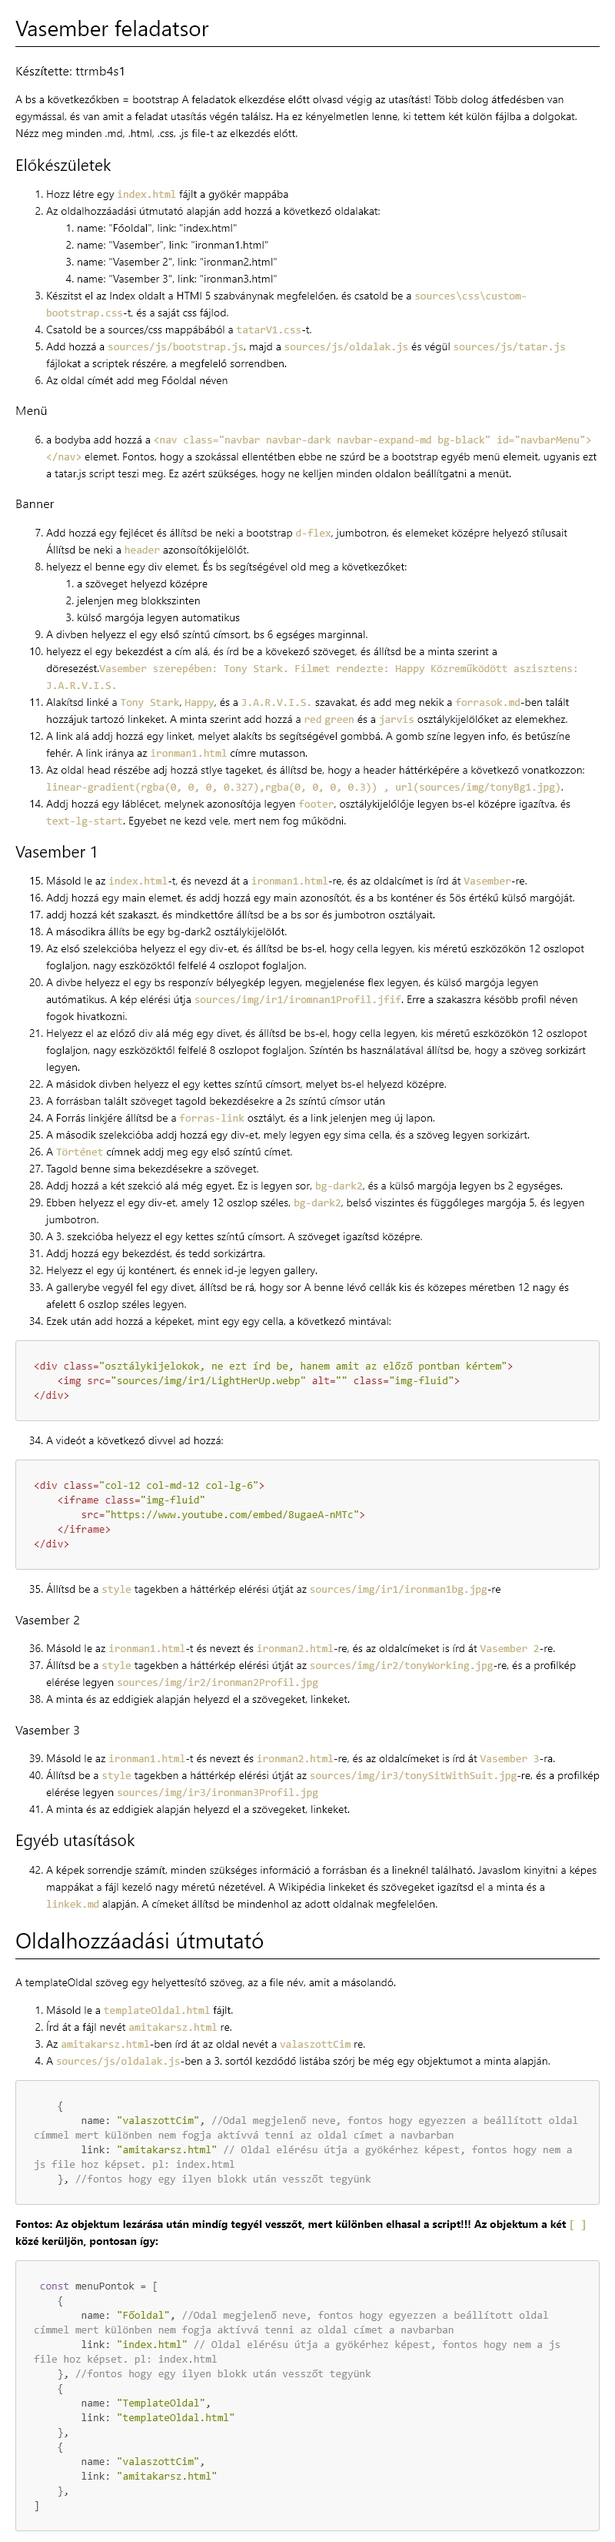
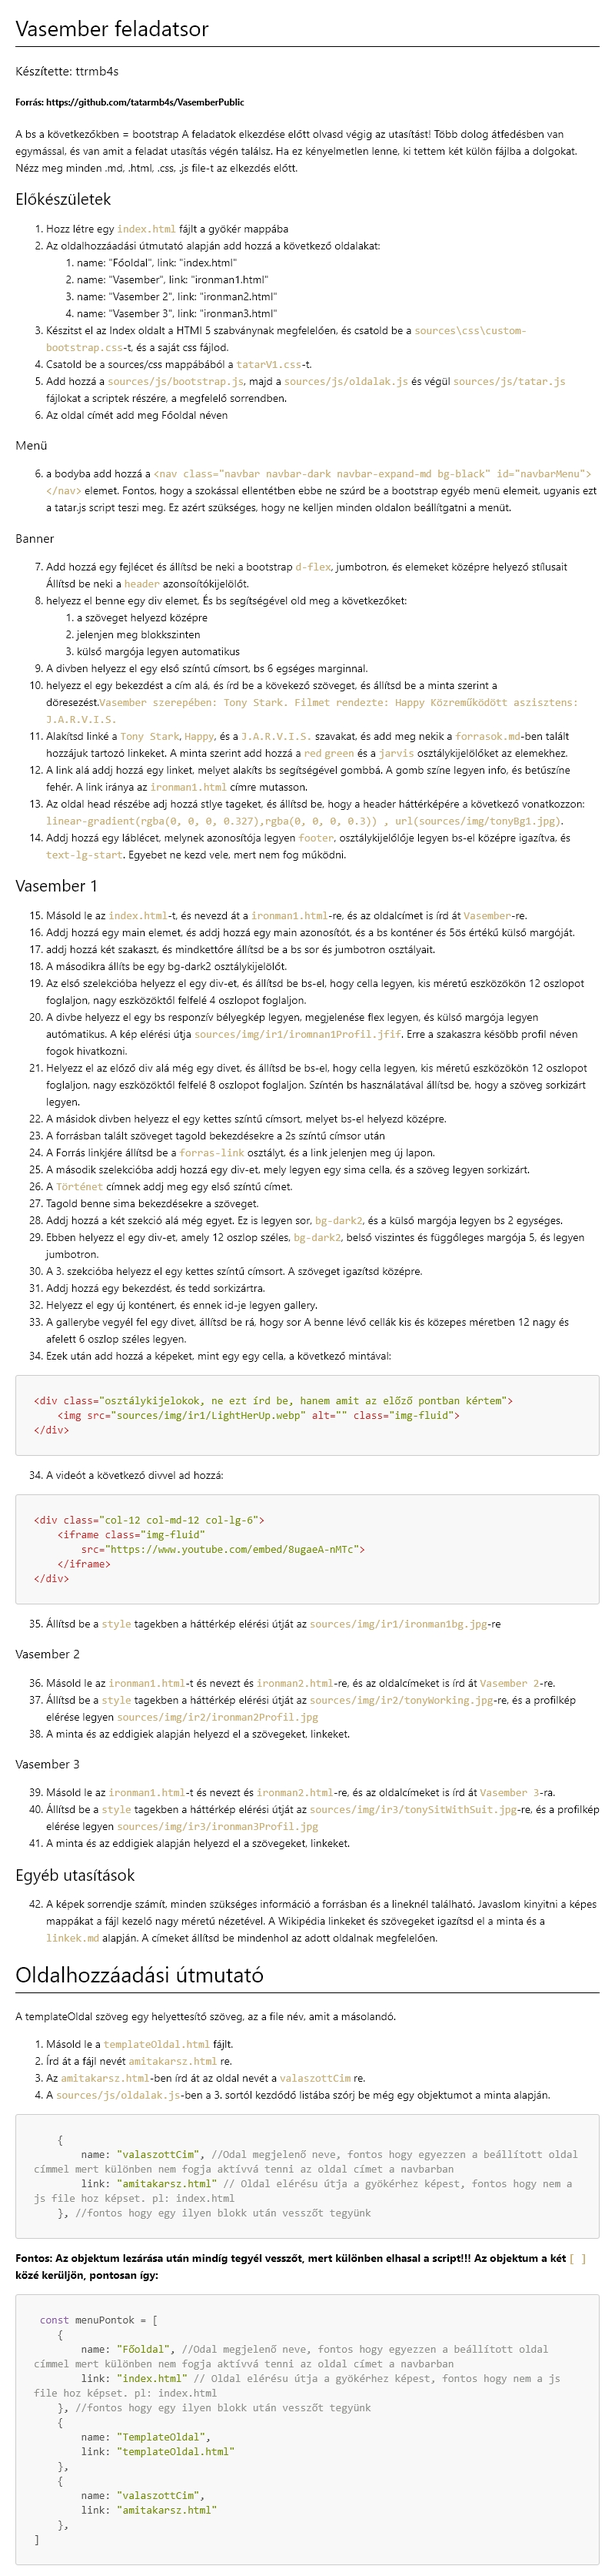
PDF forrás

Changed region(s): [[0.0312, 0.0, 0.9375, 0.9982], [0.8125, 0.8734, 0.875, 0.9046]]

diff --git a/README.html b/README.html
@@ -366,7 +366,8 @@ code {
     });
   </script>
 <h1 id="vasember-feladatsor">Vasember feladatsor</h1>
-<h3 id="k%C3%A9sz%C3%ADtette-ttrmb4s1">Készítette: ttrmb4s1</h3>
+<h3 id="k%C3%A9sz%C3%ADtette-ttrmb4s">Készítette: ttrmb4s</h3>
+<h5 id="forr%C3%A1s-httpsgithubcomtatarmb4svasemberpublic">Forrás: https://github.com/tatarmb4s/VasemberPublic</h5>
 <p>A bs a következőkben = bootstrap
 A feladatok elkezdése előtt olvasd végig az utasítást! Több dolog átfedésben van egymással, és van amit a feladat utasítás végén találsz. Ha ez kényelmetlen lenne, ki tettem két külön fájlba a dolgokat.
 Nézz meg minden .md, .html, .css, .js file-t az elkezdés előtt.</p>
